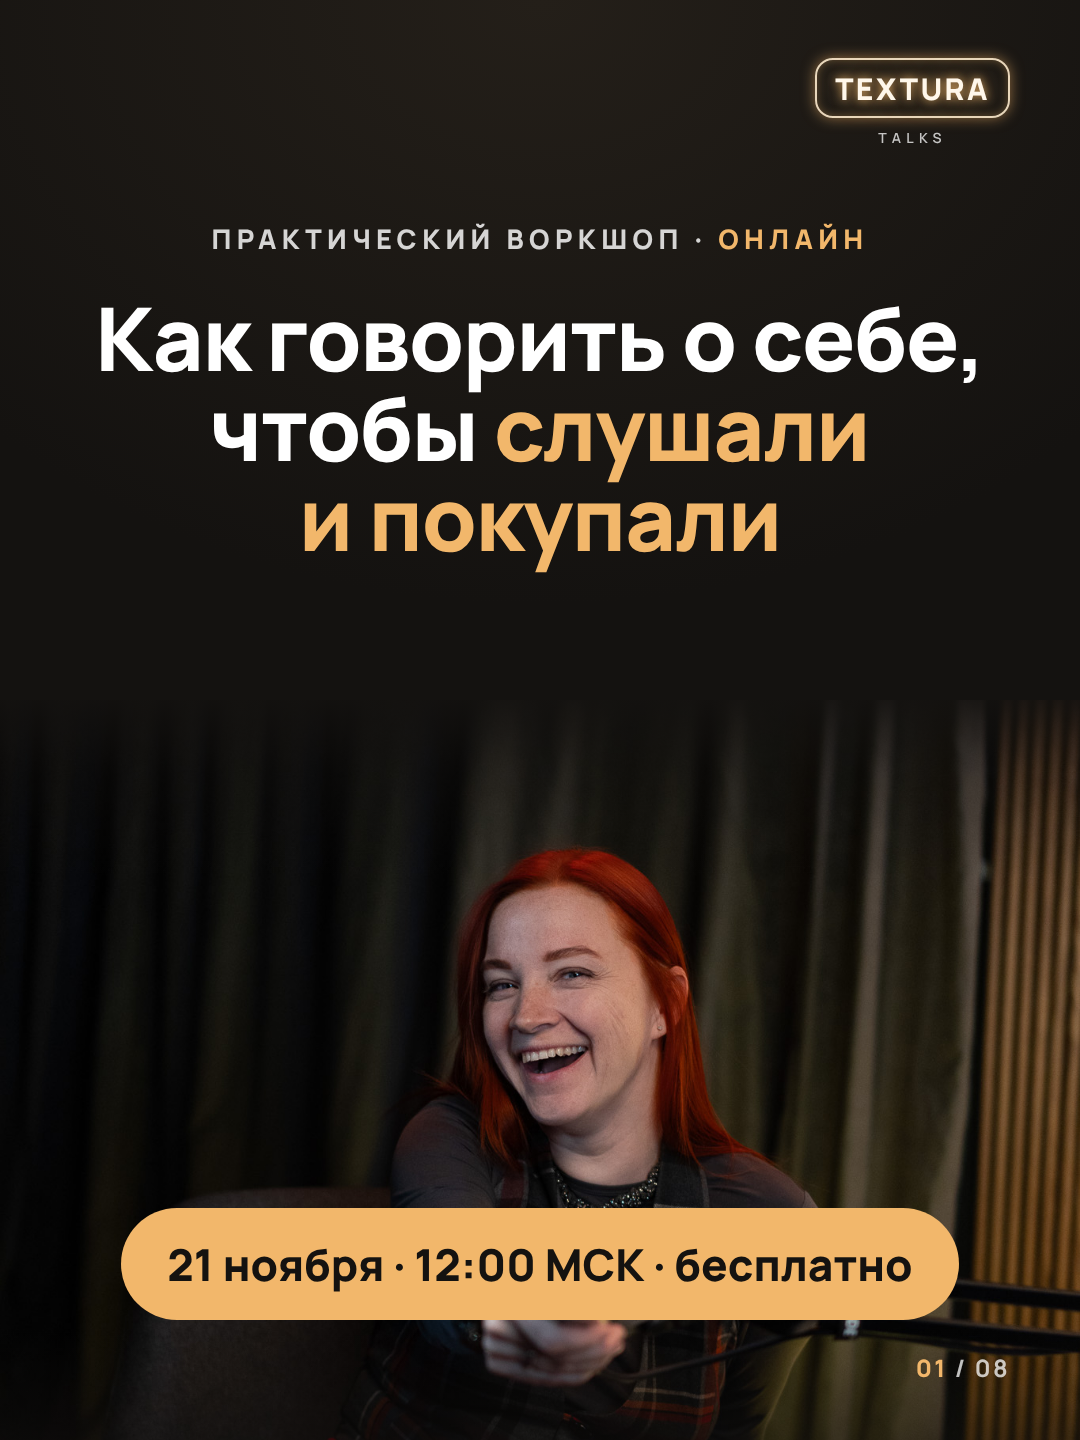
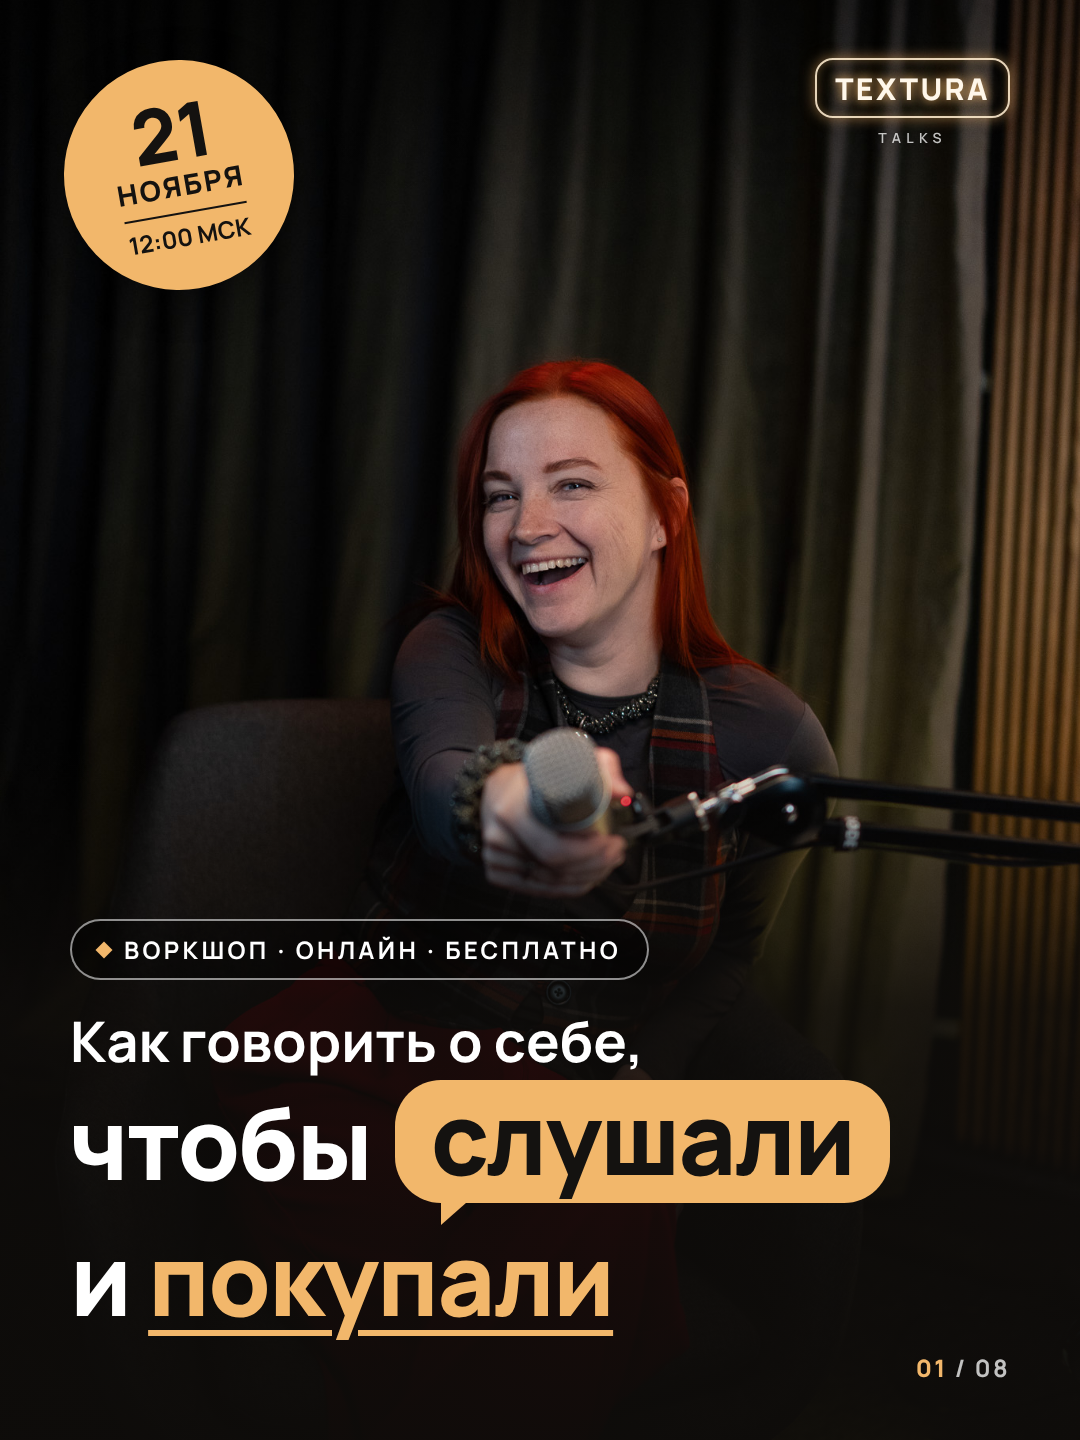
Workshop carousel: new full-photo cover
Claude-Session: https://claude.ai/code/session_01EUhV7va23MNh7ydDpeuyX7

diff --git a/textura-carousel/workshop.html b/textura-carousel/workshop.html
@@ -116,11 +116,28 @@
 </style>
 </head>
 <body>
-<section class="slide cover"><div class="photo" style="top:700px; background-image:url(photos/w-laugh.jpg); background-position:50% 40%;"></div><div class="logo"><div class="neon">TEXTURA</div><div class="sub">TALKS</div></div>
-<div class="content" style="padding-top:220px;">
-<div class="kicker">Практический воркшоп · <span>онлайн</span></div>
-<h1 style="margin-top:36px; font-size:88px;">Как говорить о&nbsp;себе, чтобы <span class="hl">слушали и&nbsp;покупали</span></h1></div>
-<div style="position:absolute; left:0; right:0; bottom:120px; z-index:3; text-align:center;"><div class="cta-pill">21 ноября · 12:00 МСК · бесплатно</div></div><div class="counter"><b>01</b> / 08</div></section>
+<section class="slide" style="background:#000;">
+  <div style="position:absolute; inset:0; background:url(photos/w-laugh.jpg) 50% 78%/cover;"></div>
+  <div style="position:absolute; inset:0; background:linear-gradient(180deg, rgba(0,0,0,.45) 0%, rgba(0,0,0,0) 14%, rgba(0,0,0,0) 52%, rgba(14,12,10,.82) 70%, rgba(14,12,10,.97) 100%);"></div>
+  <div class="logo"><div class="neon">TEXTURA</div><div class="sub">TALKS</div></div>
+  <div style="position:absolute; top:60px; left:64px; z-index:3; width:230px; height:230px; border-radius:50%; background:var(--accent); color:#141210; display:flex; flex-direction:column; align-items:center; justify-content:center; transform:rotate(-10deg); box-shadow:0 10px 40px rgba(0,0,0,.4); text-align:center;">
+    <div style="font-weight:800; font-size:76px; line-height:.9;">21</div>
+    <div style="font-weight:800; font-size:28px; letter-spacing:.08em; text-transform:uppercase;">ноября</div>
+    <div style="margin-top:8px; font-weight:700; font-size:24px; border-top:2px solid #141210; padding-top:6px;">12:00 МСК</div>
+  </div>
+  <div style="position:absolute; left:70px; right:70px; bottom:110px; z-index:3;">
+    <div style="display:inline-flex; gap:14px; align-items:center; border:2px solid rgba(255,255,255,.55); border-radius:40px; padding:12px 26px; font-weight:700; font-size:24px; letter-spacing:.14em; text-transform:uppercase; background:rgba(0,0,0,.35);">
+      <i style="width:12px; height:12px; background:var(--accent); transform:rotate(45deg); display:block;"></i>Воркшоп · онлайн · бесплатно
+    </div>
+    <div style="margin-top:30px; font-weight:700; font-size:56px; line-height:1.1;">Как говорить о&nbsp;себе,</div>
+    <div style="margin-top:8px; font-weight:800; font-size:100px; line-height:1.05; letter-spacing:-.02em; display:flex; align-items:center; gap:24px; flex-wrap:wrap;">
+      чтобы
+      <span style="position:relative; background:var(--accent); color:#141210; border-radius:46px; padding:4px 36px 14px;">слушали<span style="position:absolute; left:46px; bottom:-22px; width:0; height:0; border-left:0 solid transparent; border-right:34px solid transparent; border-top:30px solid var(--accent);"></span></span>
+    </div>
+    <div style="margin-top:22px; font-weight:800; font-size:100px; line-height:1.05; letter-spacing:-.02em;">и <span style="color:var(--accent); text-decoration:underline; text-decoration-thickness:6px; text-underline-offset:14px;">покупали</span></div>
+  </div>
+  <div class="counter"><b>01</b> / 08</div>
+</section>
 <section class="slide"><div class="photo" style="top:900px; background-image:url(photos/w-listen.jpg); background-position:50% 45%;"></div><div class="logo"><div class="neon">TEXTURA</div><div class="sub">TALKS</div></div>
 <div class="content" style="padding-top:220px;">
 <div class="kicker">Знакомо?</div>
